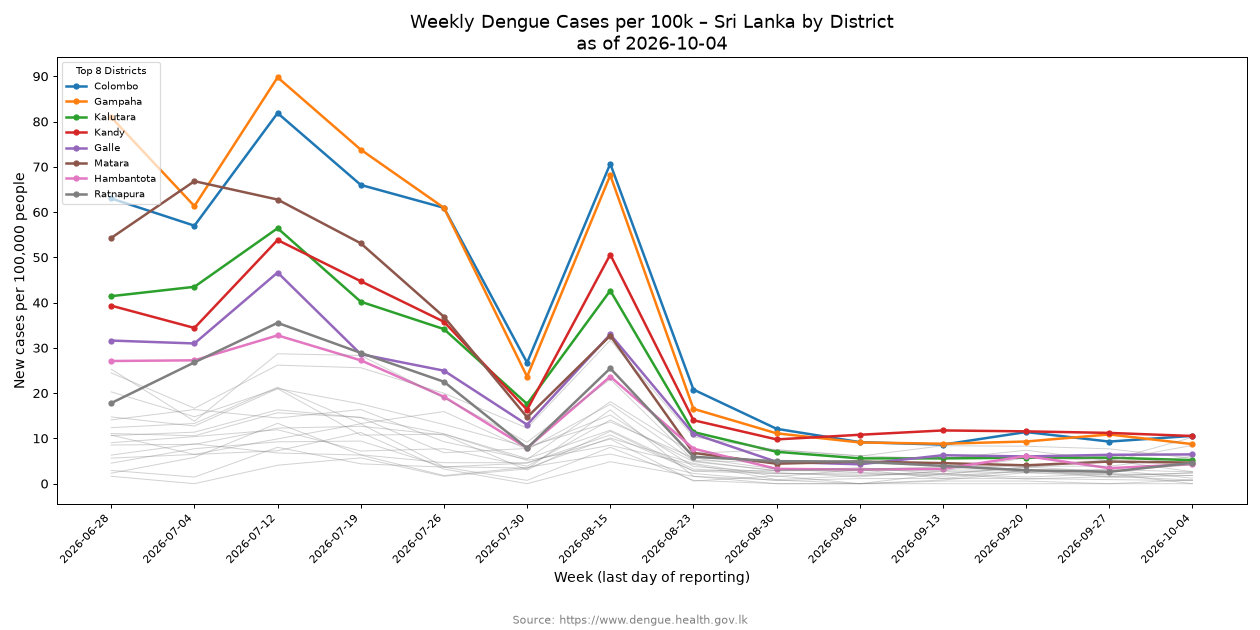
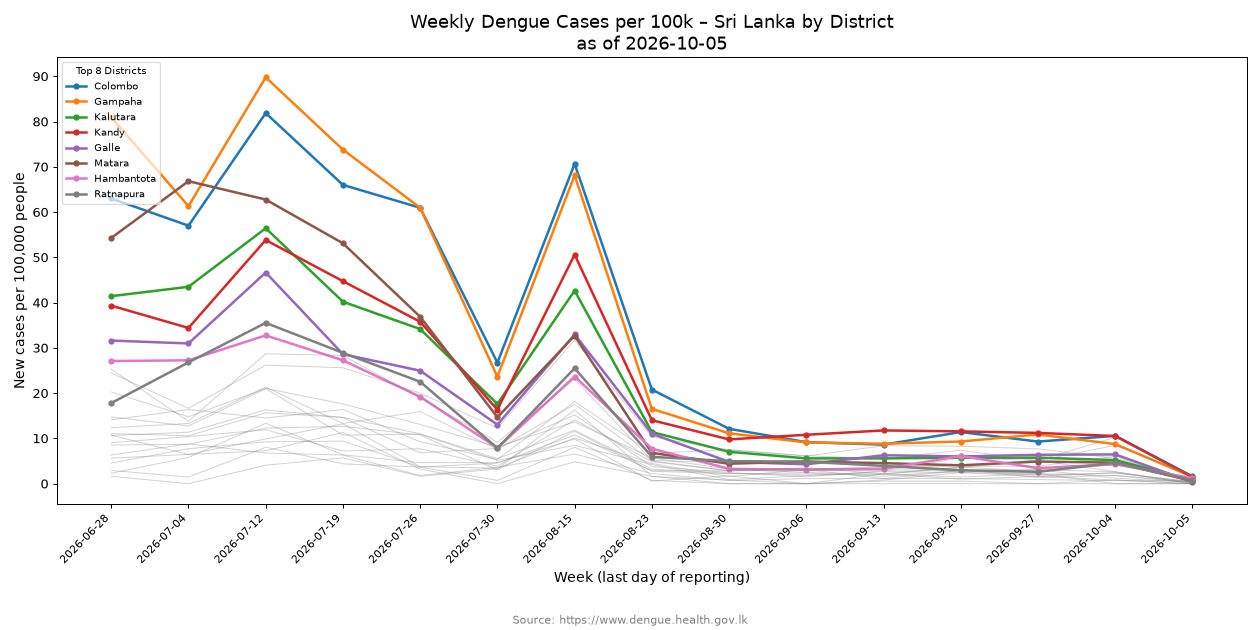
🤖 [pipeline.yml] 2026-10-06-0448

diff --git a/README.md b/README.md
@@ -139,6 +139,7 @@ As of 2026-09-13
 
 ### [National Dengue Control Unit - Daily Update](data/NDCUDaily)
 
+- [2026-10-05](data/NDCUDaily/2026/2026-10/2026-10-05)
 - [2026-10-04](data/NDCUDaily/2026/2026-10/2026-10-04)
 - [2026-10-01](data/NDCUDaily/2026/2026-10/2026-10-01)
 - [2026-09-30](data/NDCUDaily/2026/2026-09/2026-09-30)
